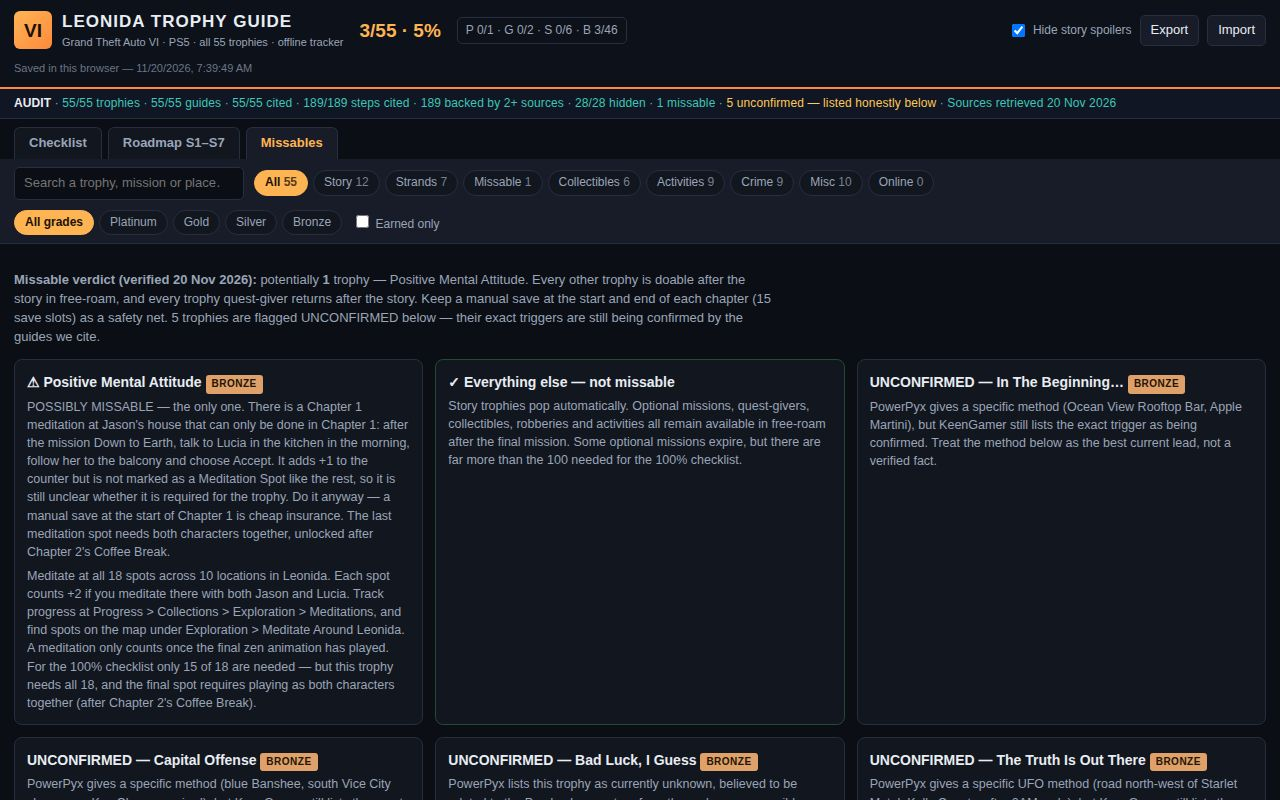
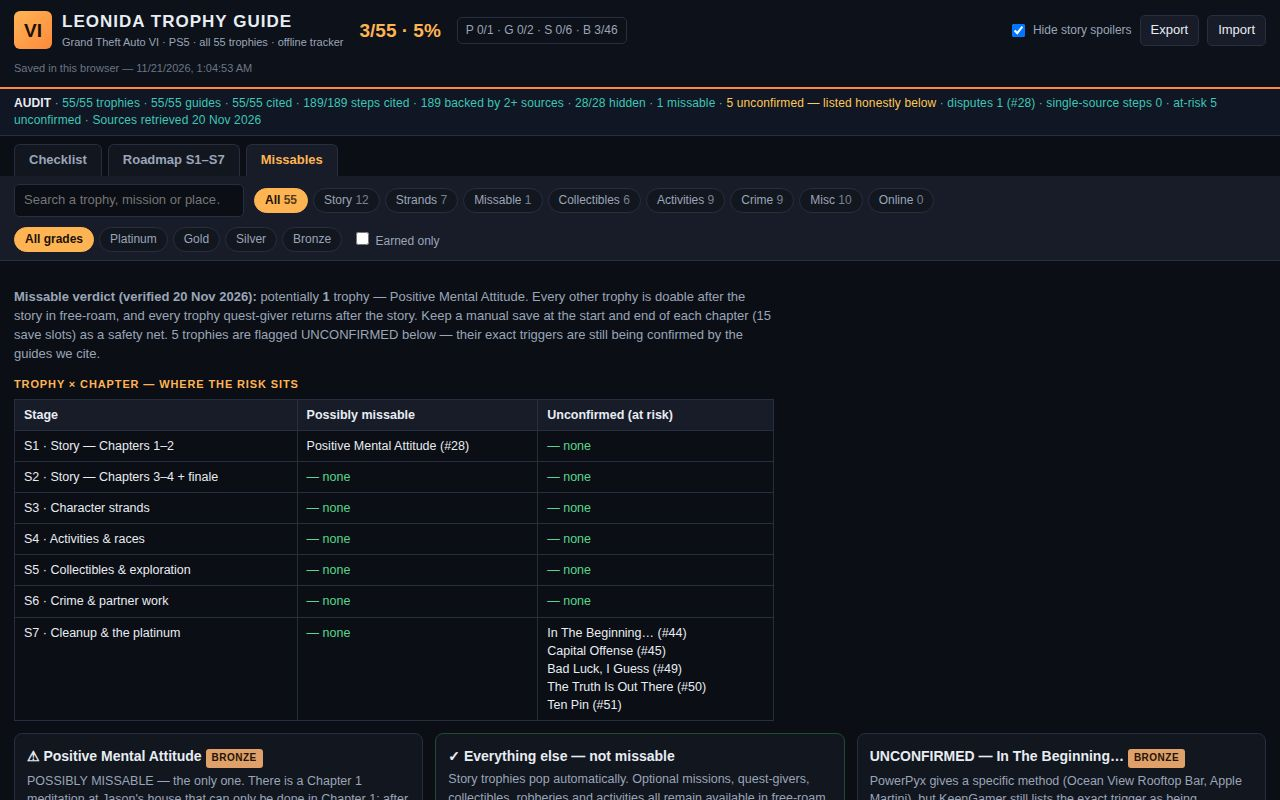
trophy-guide v3: cited roadmap action steps + NEXT UP + missables grid + audit taxonomy

diff --git a/app/app.js b/app/app.js
@@ -15,6 +15,20 @@ const STAGES = [
   { id: 7, name: 'S7 · Cleanup & the platinum', note: 'The 100% checklist, the last stunts, the odd ones out — then the platinum pops.' },
 ];
 
+// Roadmap action steps: [trophyId, stepIndex] per stage. The step text is
+// taken verbatim from that trophy's own cited steps in trophies.json — no new
+// text, no new sources. Each step carries its trophy's global citation
+// markers, exactly like the checklist detail pane.
+const ROADMAP_STEPS = {
+  1: [[2, 0], [28, 0], [20, 1], [21, 2], [28, 1], [4, 2]],
+  2: [[5, 0], [9, 0], [6, 0], [13, 0], [7, 2]],
+  3: [[25, 0], [23, 1], [24, 1], [26, 1], [29, 3], [25, 3]],
+  4: [[17, 2], [18, 1], [19, 1], [16, 1], [32, 2]],
+  5: [[30, 1], [31, 2], [35, 3], [42, 0], [54, 1], [55, 3]],
+  6: [[40, 0], [43, 1], [33, 2], [39, 2], [36, 3], [41, 1]],
+  7: [[14, 1], [14, 2], [15, 1], [1, 2], [52, 3], [53, 1]],
+};
+
 const KIND_LABELS = {
   story: 'Story', strand: 'Strands', activity: 'Activities', collectible: 'Collectibles',
   crime: 'Crime', misc: 'Misc', platinum: 'Platinum', completion: '100%',
@@ -116,11 +130,16 @@ function renderAudit() {
   const hidden = trophies.filter((t) => t.hidden).length;
   const miss = trophies.filter((t) => t.missable).length;
   const unconf = trophies.filter((t) => t.unconfirmed).length;
+  const disputes = trophies.filter((t) => t.dispute);
+  const singleSrcSteps = trophies.filter((t) => t.sources && t.sources.length < 2)
+    .reduce((n, t) => n + (t.steps || []).length, 0);
   document.getElementById('audit').innerHTML =
     '<b>AUDIT</b> · ' + total + '/55 trophies · ' + guides + '/55 guides · ' + cited + '/55 cited · ' +
     auditSteps.cited + '/' + auditSteps.total + ' steps cited · ' + auditSteps.backed2 + ' backed by 2+ sources · ' +
     hidden + '/28 hidden · ' + miss + ' missable · <span class="warn">' + unconf +
-    ' unconfirmed — listed honestly below</span> · Sources retrieved ' + RETRIEVED;
+    ' unconfirmed — listed honestly below</span> · disputes ' + disputes.length +
+    (disputes.length ? ' (' + disputes.map((t) => '#' + t.id).join(', ') + ')' : '') +
+    ' · single-source steps ' + singleSrcSteps + ' · at-risk ' + unconf + ' unconfirmed · Sources retrieved ' + RETRIEVED;
 }
 
 function renderChips() {
@@ -259,14 +278,39 @@ function stageName(n) { const s = STAGES.find((x) => x.id === n); return s ? s.n
 
 function renderRoadmap() {
   const pane = document.getElementById('roadmapPane');
-  pane.innerHTML = '<div class="stage-grid">' + STAGES.map((s) => {
+  // NEXT UP: the first unearned trophy in roadmap order (stage, then id).
+  // A hidden story trophy is named only when spoilers are shown; its first
+  // cited action step is always the headline — that is what to do next.
+  const ordered = [...trophies].sort((a, b) => a.stage - b.stage || a.id - b.id);
+  const next = ordered.find((t) => !state.earned[t.id]);
+  let nextHtml = '';
+  if (next) {
+    const firstStep = (next.steps || [])[0];
+    nextHtml = '<div class="next-up"><span class="lbl">NEXT UP</span>' +
+      (isStoryHidden(next) ? '' : '<b>' + escapeHtml(next.name) + '</b> · ') +
+      '#' + next.id + ' · ' + escapeHtml(stageName(next.stage)) + ' · <span class="grade ' + next.grade + '">' + next.grade + '</span> · ' +
+      (KIND_LABELS[next.kind] || next.kind) +
+      (firstStep ? '<div class="next-step"><span class="cite">' + citeString(next) + '</span> ' + escapeHtml(firstStep) + '</div>' : '') +
+      '</div>';
+  }
+  pane.innerHTML = nextHtml + '<div class="stage-grid">' + STAGES.map((s) => {
     const members = trophies.filter((t) => t.stage === s.id);
     const done = members.filter((t) => state.earned[t.id]).length;
+    const miss = members.filter((t) => t.missable).length;
+    const unconf = members.filter((t) => t.unconfirmed).length;
+    const hid = members.filter((t) => t.hidden).length;
+    const steps = members.reduce((n, t) => n + (t.steps || []).length, 0);
+    const picks = (ROADMAP_STEPS[s.id] || []).map(([tid, si]) => {
+      const t = trophies.find((x) => x.id === tid);
+      const step = t && t.steps ? t.steps[si] : null;
+      if (!t || !step) return '';
+      return '<li><span class="cite">' + citeString(t) + '</span> ' + escapeHtml(step) + '</li>';
+    }).join('');
     return '<div class="stage-card"><h3>' + escapeHtml(s.name) + ' — ' + done + '/' + members.length + ' earned</h3>' +
-      '<div class="stage-meta">' + escapeHtml(s.note) + '</div><ul>' +
-      members.map((t) => '<li class="' + (state.earned[t.id] ? 'done' : '') + '">' +
-        escapeHtml(isStoryHidden(t) ? 'Hidden story trophy' : t.name) +
-        ' <span style="color:var(--dim)">(' + t.grade + ')</span></li>').join('') + '</ul></div>';
+      '<div class="stage-meta">' + members.length + ' trophies · ' + miss + ' missable · ' + unconf + ' unconfirmed · ' +
+      hid + ' hidden · ' + steps + ' cited steps</div>' +
+      '<div class="stage-meta">' + escapeHtml(s.note) + '</div>' +
+      '<ol class="roadmap-steps">' + picks + '</ol></div>';
   }).join('') + '</div>';
 }
 
@@ -278,6 +322,15 @@ function renderMissables() {
     'Positive Mental Attitude. Every other trophy is doable after the story in free-roam, and every trophy quest-giver returns after the story. ' +
     'Keep a manual save at the start and end of each chapter (15 save slots) as a safety net. ' + unconf.length +
     ' trophies are flagged UNCONFIRMED below — their exact triggers are still being confirmed by the guides we cite.</p>' +
+    '<table class="miss-grid"><caption>TROPHY × CHAPTER — WHERE THE RISK SITS</caption><thead><tr><th>Stage</th><th>Possibly missable</th><th>Unconfirmed (at risk)</th></tr></thead><tbody>' +
+    STAGES.map((s) => {
+      const m = trophies.filter((t) => t.stage === s.id && t.missable);
+      const u = trophies.filter((t) => t.stage === s.id && t.unconfirmed);
+      const cell = (arr) => arr.length
+        ? arr.map((t) => escapeHtml(t.name) + ' (#' + t.id + ')').join('<br>')
+        : '<span class="ok">— none</span>';
+      return '<tr><td>' + escapeHtml(s.name) + '</td><td>' + cell(m) + '</td><td>' + cell(u) + '</td></tr>';
+    }).join('') + '</tbody></table>' +
     '<div class="miss-list">' +
     miss.map((t) => '<div class="miss-card"><h3>⚠ ' + escapeHtml(t.name) + ' <span class="grade ' + t.grade + '">' + t.grade + '</span></h3><p>' +
       escapeHtml(t.missable_reason || '') + '</p><p style="margin-top:6px">' + escapeHtml(t.guide || '') + '</p></div>').join('') +

diff --git a/app/style.css b/app/style.css
@@ -120,6 +120,18 @@ button { font: inherit; cursor: pointer; }
 
 /* Roadmap + missables panes */
 .roadmap-pane, .missables-pane { padding: 14px; }
+.next-up { background: var(--panel2); border: 1px solid var(--accent); border-radius: 8px;
+  padding: 10px 12px; margin-bottom: 12px; font-size: 13px; }
+.next-up .lbl { font-size: 10px; letter-spacing: .08em; color: var(--accent); font-weight: 800; margin-right: 6px; }
+.next-up .next-step { margin-top: 4px; color: var(--muted); }
+.roadmap-steps { margin: 8px 0 0; padding-left: 20px; font-size: 12.5px; }
+.roadmap-steps li { margin-bottom: 5px; }
+.miss-grid { width: 100%; max-width: 760px; border-collapse: collapse; margin: 12px 0; font-size: 12.5px; }
+.miss-grid caption { text-align: left; font-size: 11px; letter-spacing: .08em; font-weight: 800;
+  color: var(--accent); margin-bottom: 6px; }
+.miss-grid th, .miss-grid td { border: 1px solid var(--line); padding: 6px 9px; text-align: left; vertical-align: top; }
+.miss-grid th { background: var(--panel2); }
+.miss-grid .ok { color: var(--green); }
 .stage-grid { display: grid; grid-template-columns: repeat(auto-fill, minmax(300px, 1fr)); gap: 12px; }
 .stage-card { background: var(--panel); border: 1px solid var(--line); border-radius: 8px; padding: 12px; }
 .stage-card h3 { margin: 0 0 2px; font-size: 14px; color: var(--accent); }
